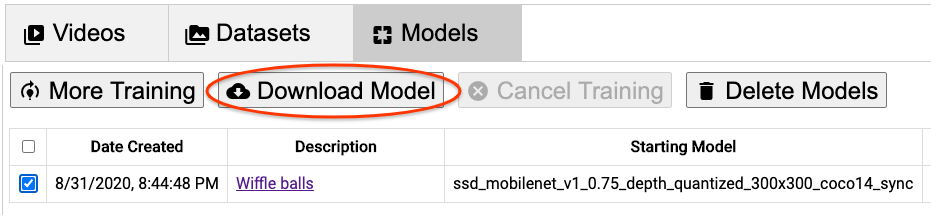
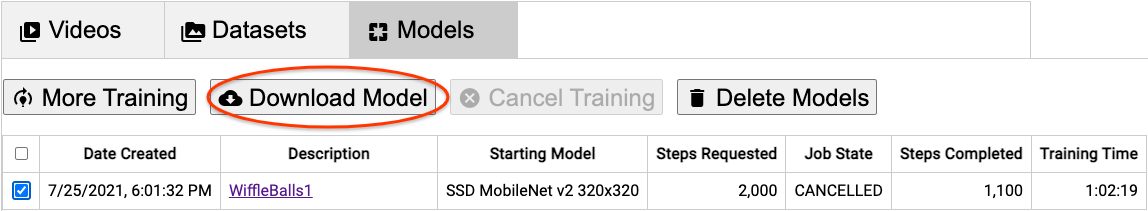
Updated screenshots (again!) in documentation.

Changed region(s): [[0.0, 0.0, 1.0, 0.9953]]

diff --git a/doc/design.md b/doc/design.md
@@ -669,15 +669,11 @@ job runs on a Cloud TPU and the evaluation job runs on a Cloud GPU.
 <img src="images/start_training_dialog_submitting_job_request.png">
 
 After the job requests have been submitted, the Start Training dialog goes away
-and the [Models tab](#models-tab), is displayed.
+and the [Models tab](#models-tab), is displayed. It can take several minutes
+before the job starts running. 
 
-<img src="images/models_tab_preparing.png">
-
-It can take several minutes before the job starts running.
-
-When a training job is running, the Models tab looks like this.
-
-<img src="images/models_tab_running.png">
+...
+<!--- TODO(lizlooney): add internal details --->
 
 ### Deleting a Dataset
 
@@ -747,9 +743,17 @@ If no models have been created, the Models tab looks like this:
 
 <img src="images/models_tab_empty.png">
 
+When a training job is running, the Models tab looks like this.
+
+<img src="images/models_tab_running.png">
+
 When a training job is finished, the Models tab looks like this.
 
-<img src="images/models_tab_succeeded.png">
+<img src="images/models_tab_job_finished.png">
+
+If the training job takes more than the maximum training time, it will be
+canceled automatically. Even though the job was canceled, the last checkpoint
+is available for downloading a TensorFlow Lite model.
 
 The description is a clickable link. To monitor model training, the user clicks
 on the description for that model.
@@ -783,54 +787,77 @@ on the description for that model.
 
 #### Details Tab
 
-<img src="images/monitor_training_details.png">
+The Details tab shows information about the model being trained.
 
-...
-<!--- TODO(lizlooney): add content here --->
+<img src="images/monitor_training_details_running.png">
+
+If the training job takes more than the maximum training time, it will be
+canceled automatically.
+
+<img src="images/monitor_training_details_overtime.png">
+
 
 #### Graphs Tab
 
+The Graphs tab shows training and evaluation metrics.
+
 <img src="images/monitor_training_graphs.png">
 
-...
-<!--- TODO(lizlooney): add content here --->
+Graphs with names that end in IOU show the
+[Intersection over Union](https://www.pyimagesearch.com/2016/11/07/intersection-over-union-iou-for-object-detection/)
+ metric, which indicates the accuracy of object detection.
 
 <img src="images/monitor_training_graphs_detection_boxes.png">
 
-...
-<!--- TODO(lizlooney): add content here --->
 
 #### Images Tab
 
+The Images tab shows side by side images where the left image shows the bounding
+boxes that were produced by the model and the right image shows the bounding
+boxes that were labeled by the user.
+
 <img src="images/monitor_training_images.png">
 
-...
-<!--- TODO(lizlooney): add content here --->
+
+Above each image is a slider that allows the user to choose the checkpoint of
+the model. Here we see that after 100 steps of training, the model was able to
+detect 3 of the 4 wiffle balls.
+
+<img src="images/monitor_training_images_100_steps.png">
+
+If you want to see the full size image, you can use your browser's Open Image
+in New Tab feature.
+
+<img src="images/monitor_training_images_open_in_new_tab.png">
+
 
 ### More Training
 
-If one model is selected and that model's training has succeeded, the More
-Training button is enabled.
+If one model is selected and that model's training has finished and saved a
+checkpoint, the More Training button is enabled.
 
 <img src="images/more_training_button_enabled.png">
 
-...
-<!--- TODO(lizlooney): add content here --->
+When the user clicks More Training, the More Training dialog is shown.
 
 <img src="images/train_more_dialog.png">
 
+The user can choose to continue training with just the original dataset or with
+additional datasets.
+
 ...
-<!--- TODO(lizlooney): add content here --->
+<!--- TODO(lizlooney): add internal details --->
 
 ### Downloading a Model
 
-If one model is selected and that model's training has succeeded, the Download
-Model button is enabled.
+If one model is selected and that model's training has finished and saved a
+checkpoint, the Download Model button is enabled.
 
 <img src="images/download_model_button_enabled.png">
 
 ...
 <!--- TODO(lizlooney): add content here --->
+<!--- TODO(lizlooney): add internal details --->
 
 ### Canceling Training
 
@@ -841,6 +868,7 @@ already been cancelled, the Cancel Training button is enabled.
 
 ...
 <!--- TODO(lizlooney): add content here --->
+<!--- TODO(lizlooney): add internal details --->
 
 ### Deleting a Model
 
